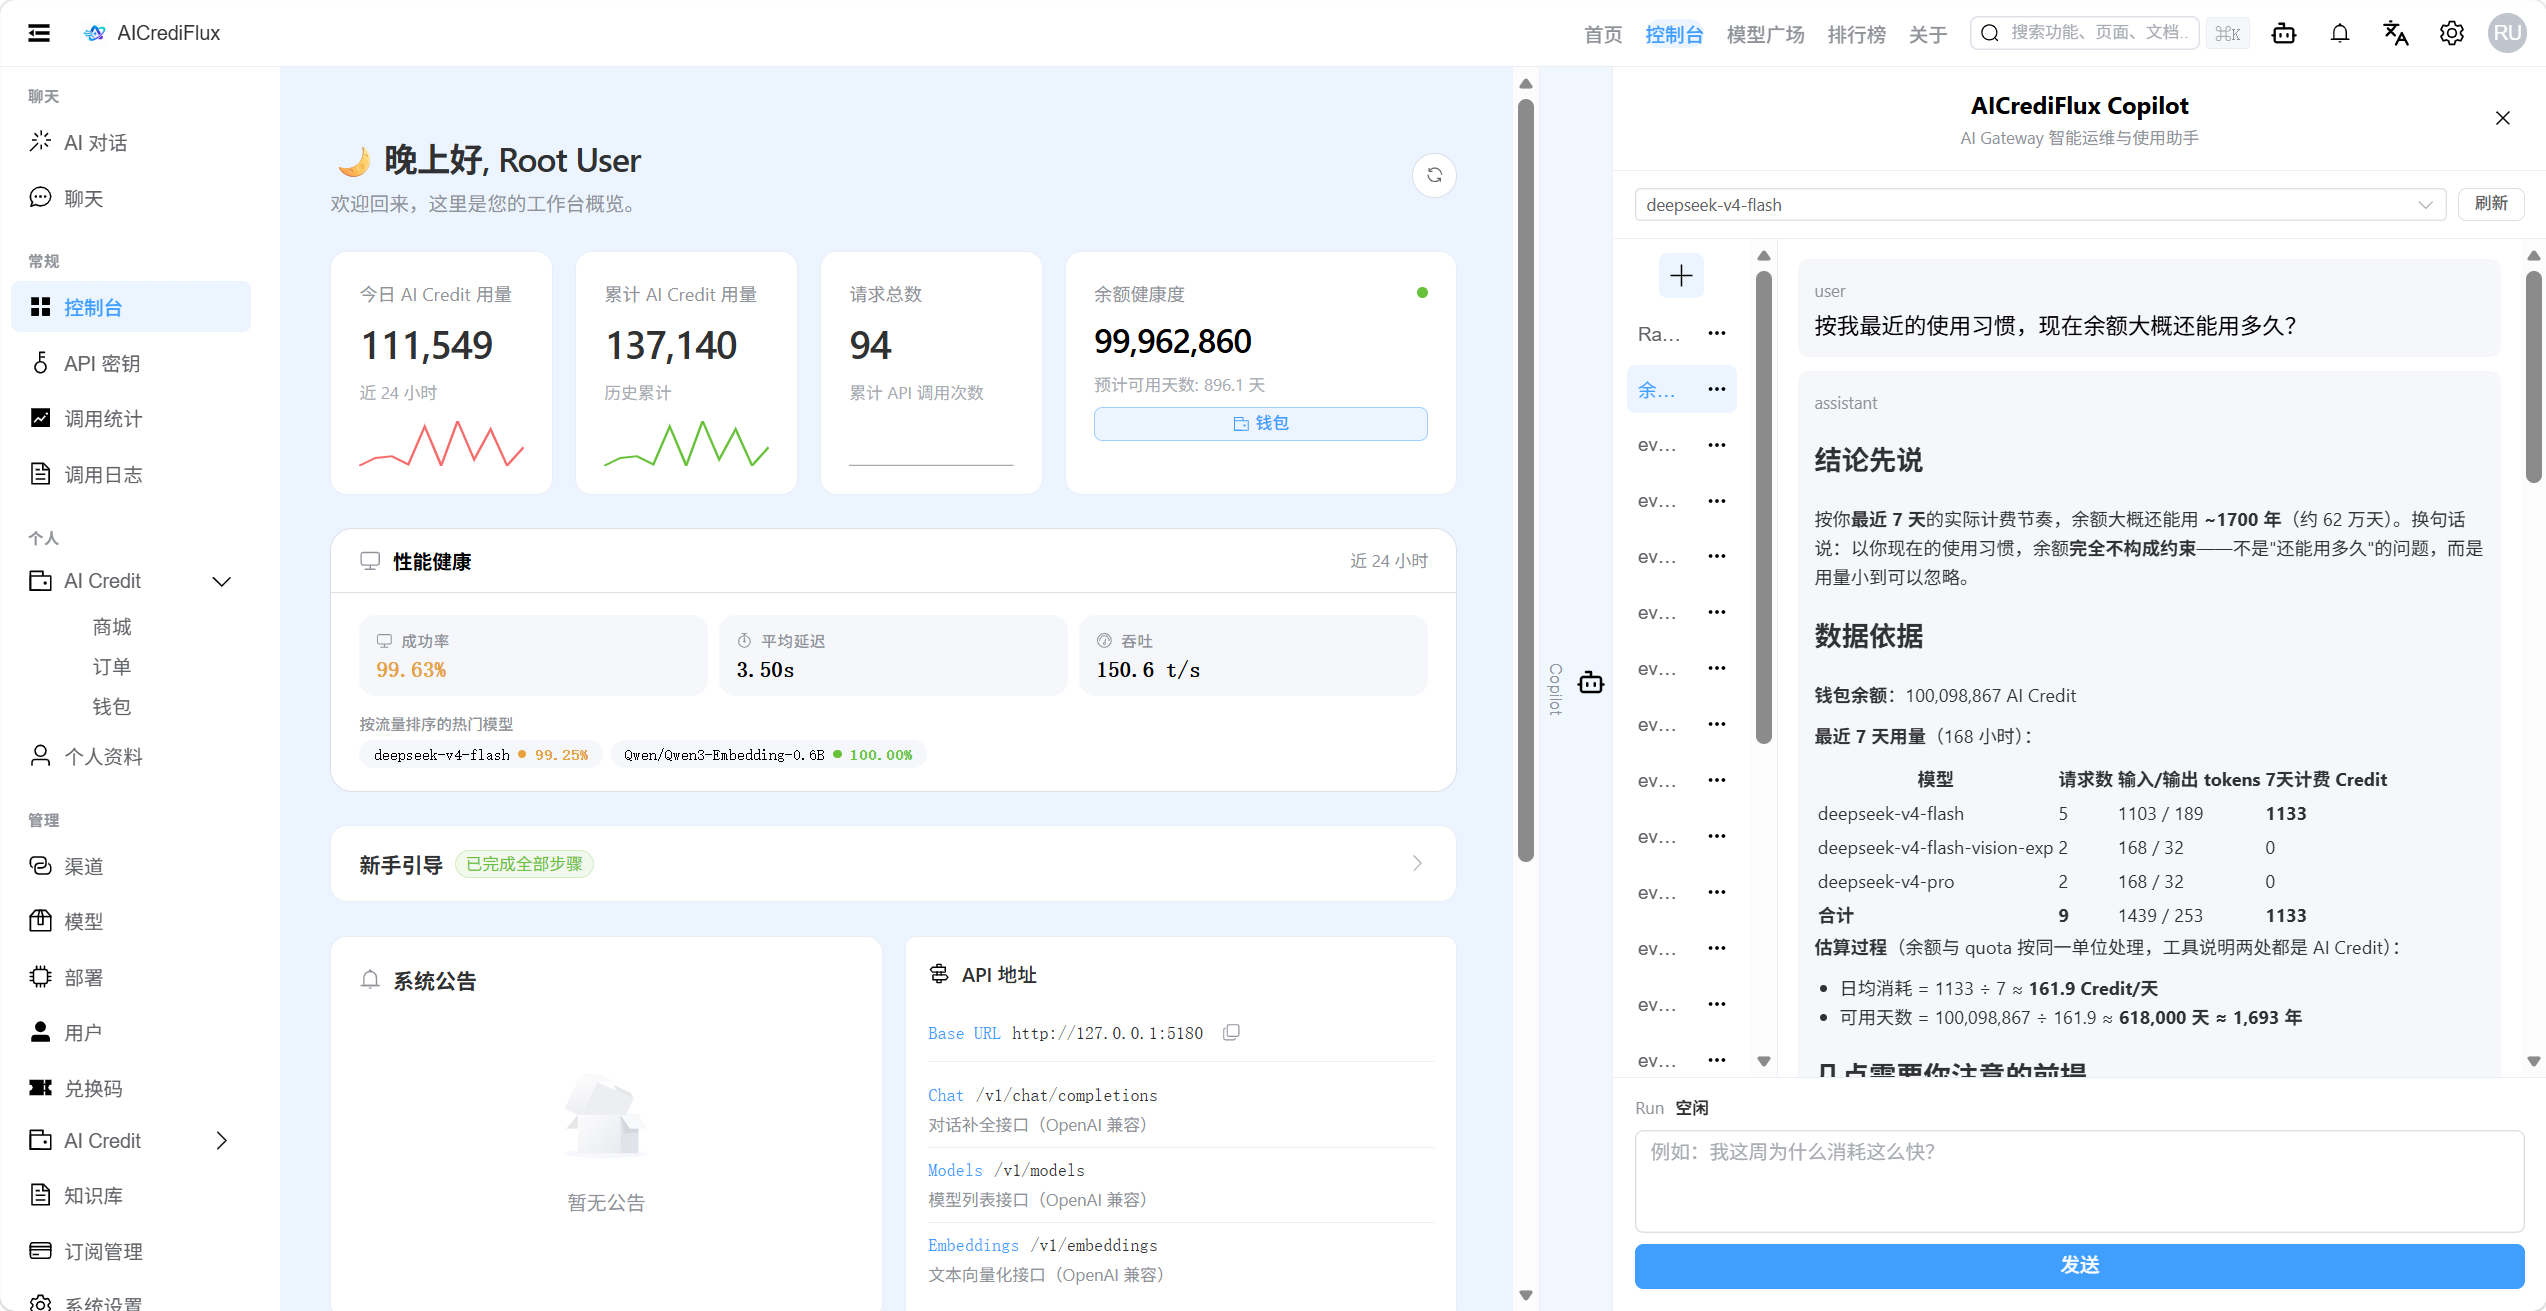
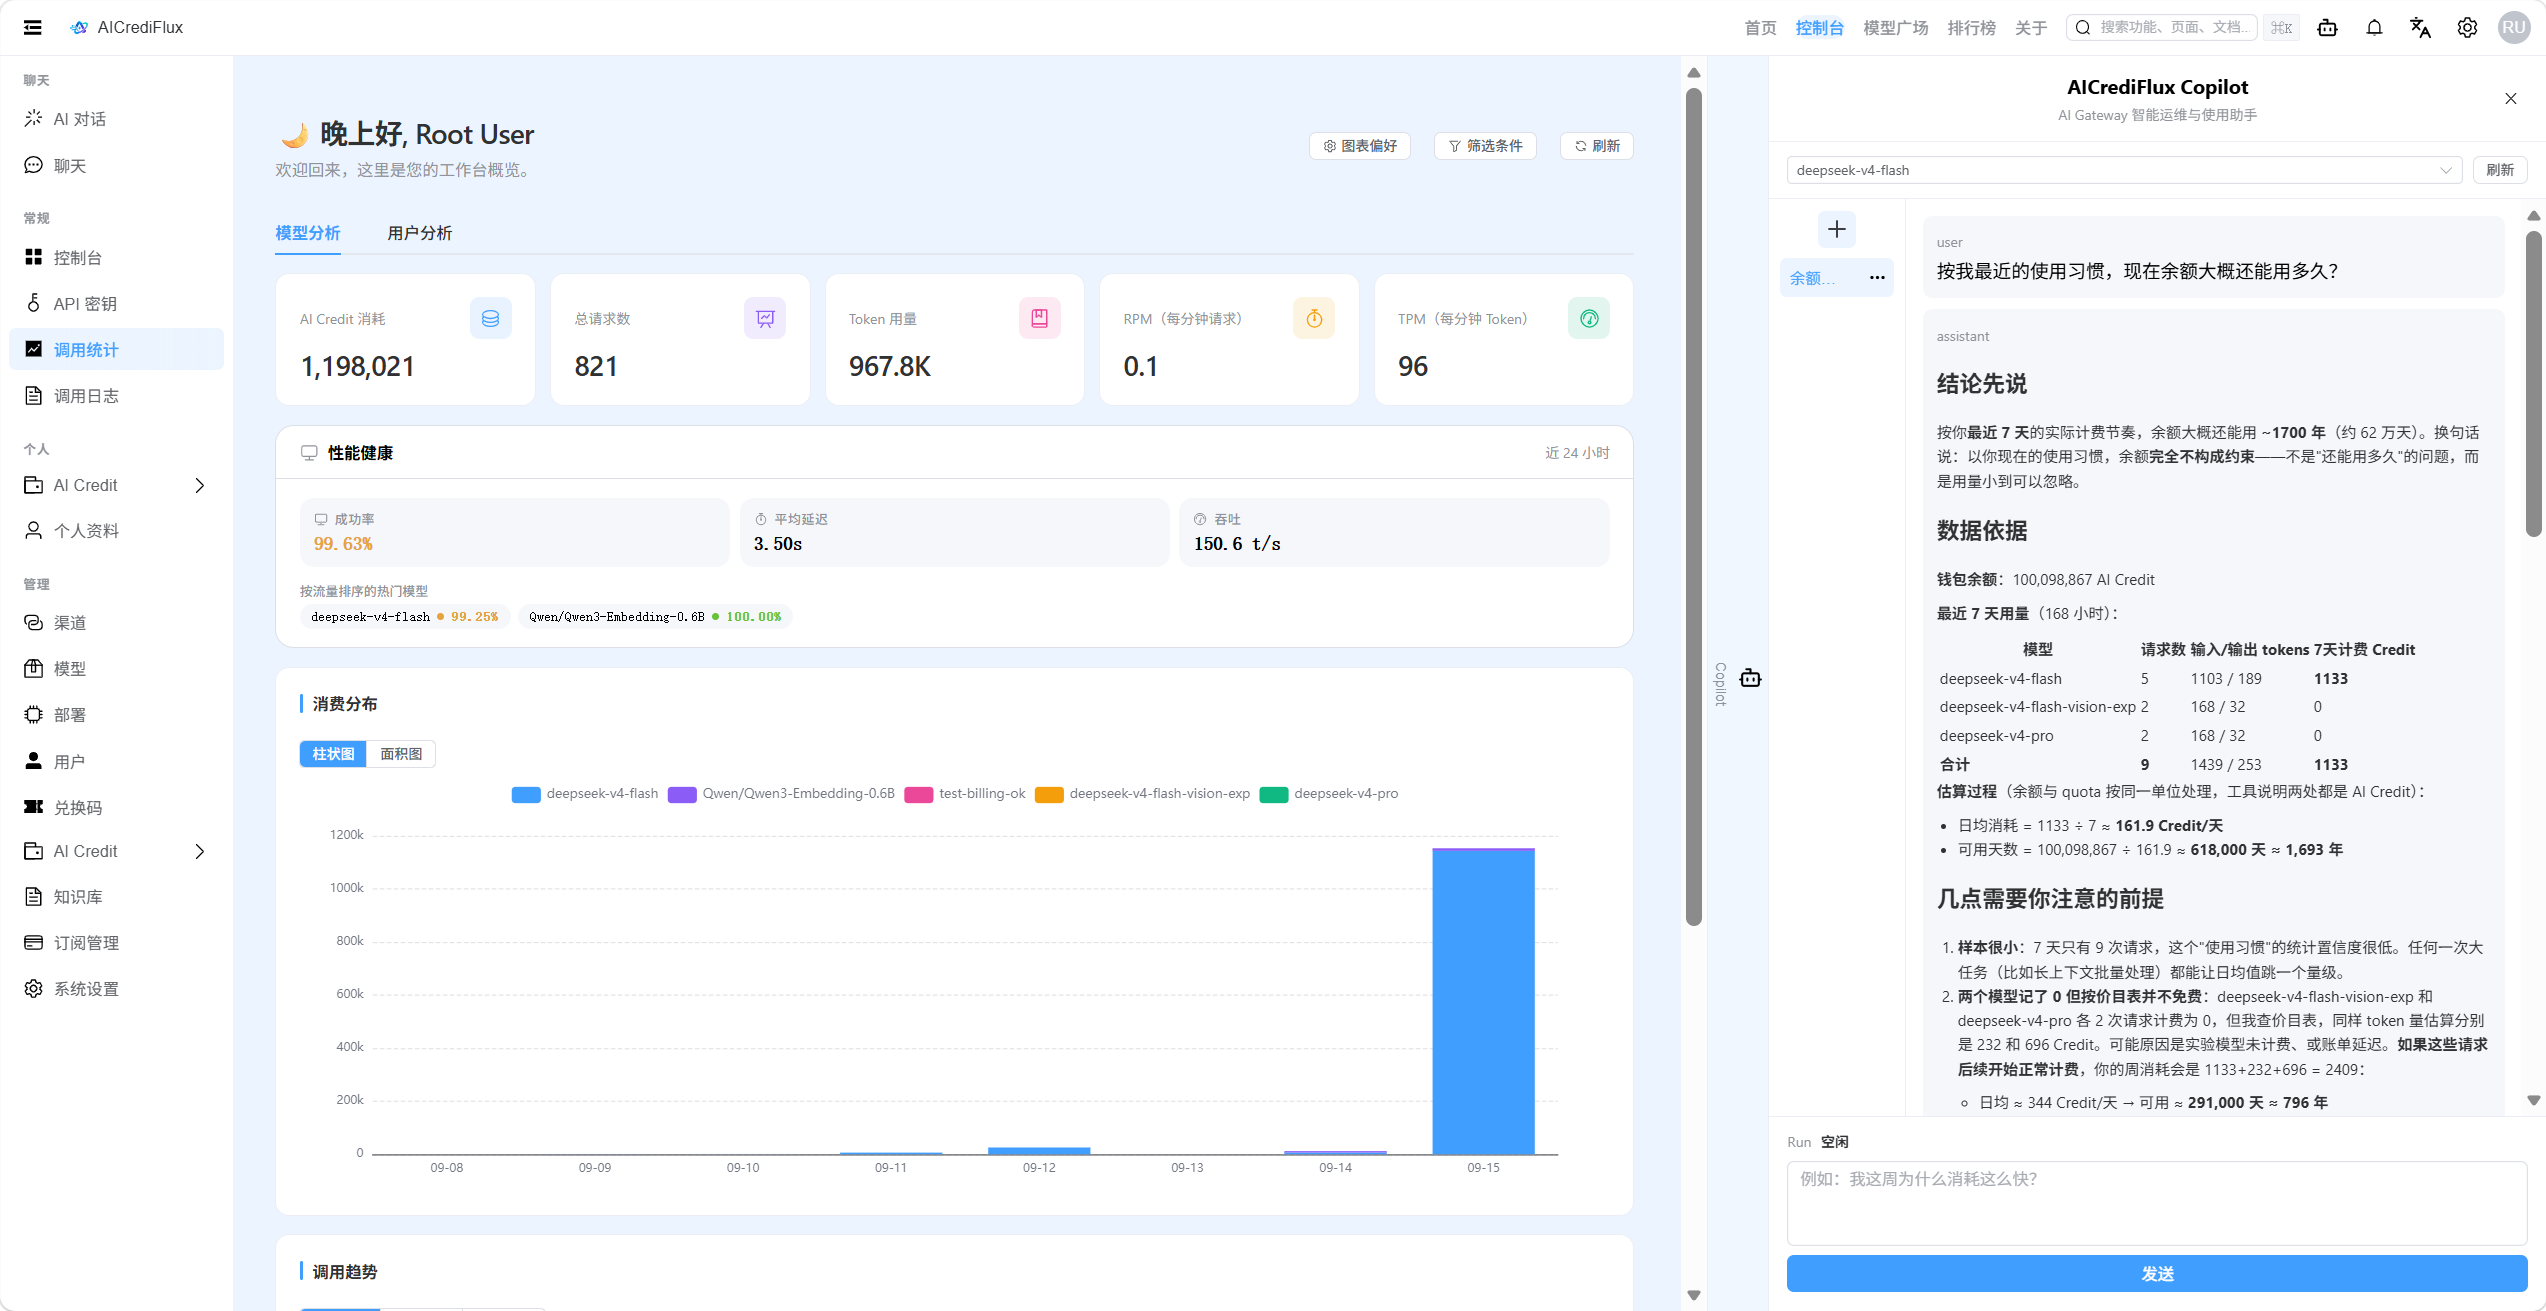
Initial AICrediFlux implementation

diff --git a/README.md b/README.md
@@ -121,12 +121,12 @@ scripts/eval.ps1            汇总 Agent/JMeter 结果并生成报告
   <img src="./assets/screenshots/rankings.png" alt="模型排行榜" width="100%" />
 </p>
 
-### 📈 调用统计
+### 🧾 调用日志
 
-通过 AI Credit 消耗、请求数、Token 用量、RPM、TPM、成功率和延迟等指标观察平台运行情况。
+按时间、渠道、用户、模型和 API 密钥筛选调用记录，查看耗时、输入/输出 Tokens、AI Credit 消耗、请求 ID 和详情。
 
 <p align="center">
-  <img src="./assets/screenshots/usage-statistics.png" alt="调用统计" width="100%" />
+  <img src="./assets/screenshots/usage-logs.png" alt="调用日志" width="100%" />
 </p>
 
 ---
